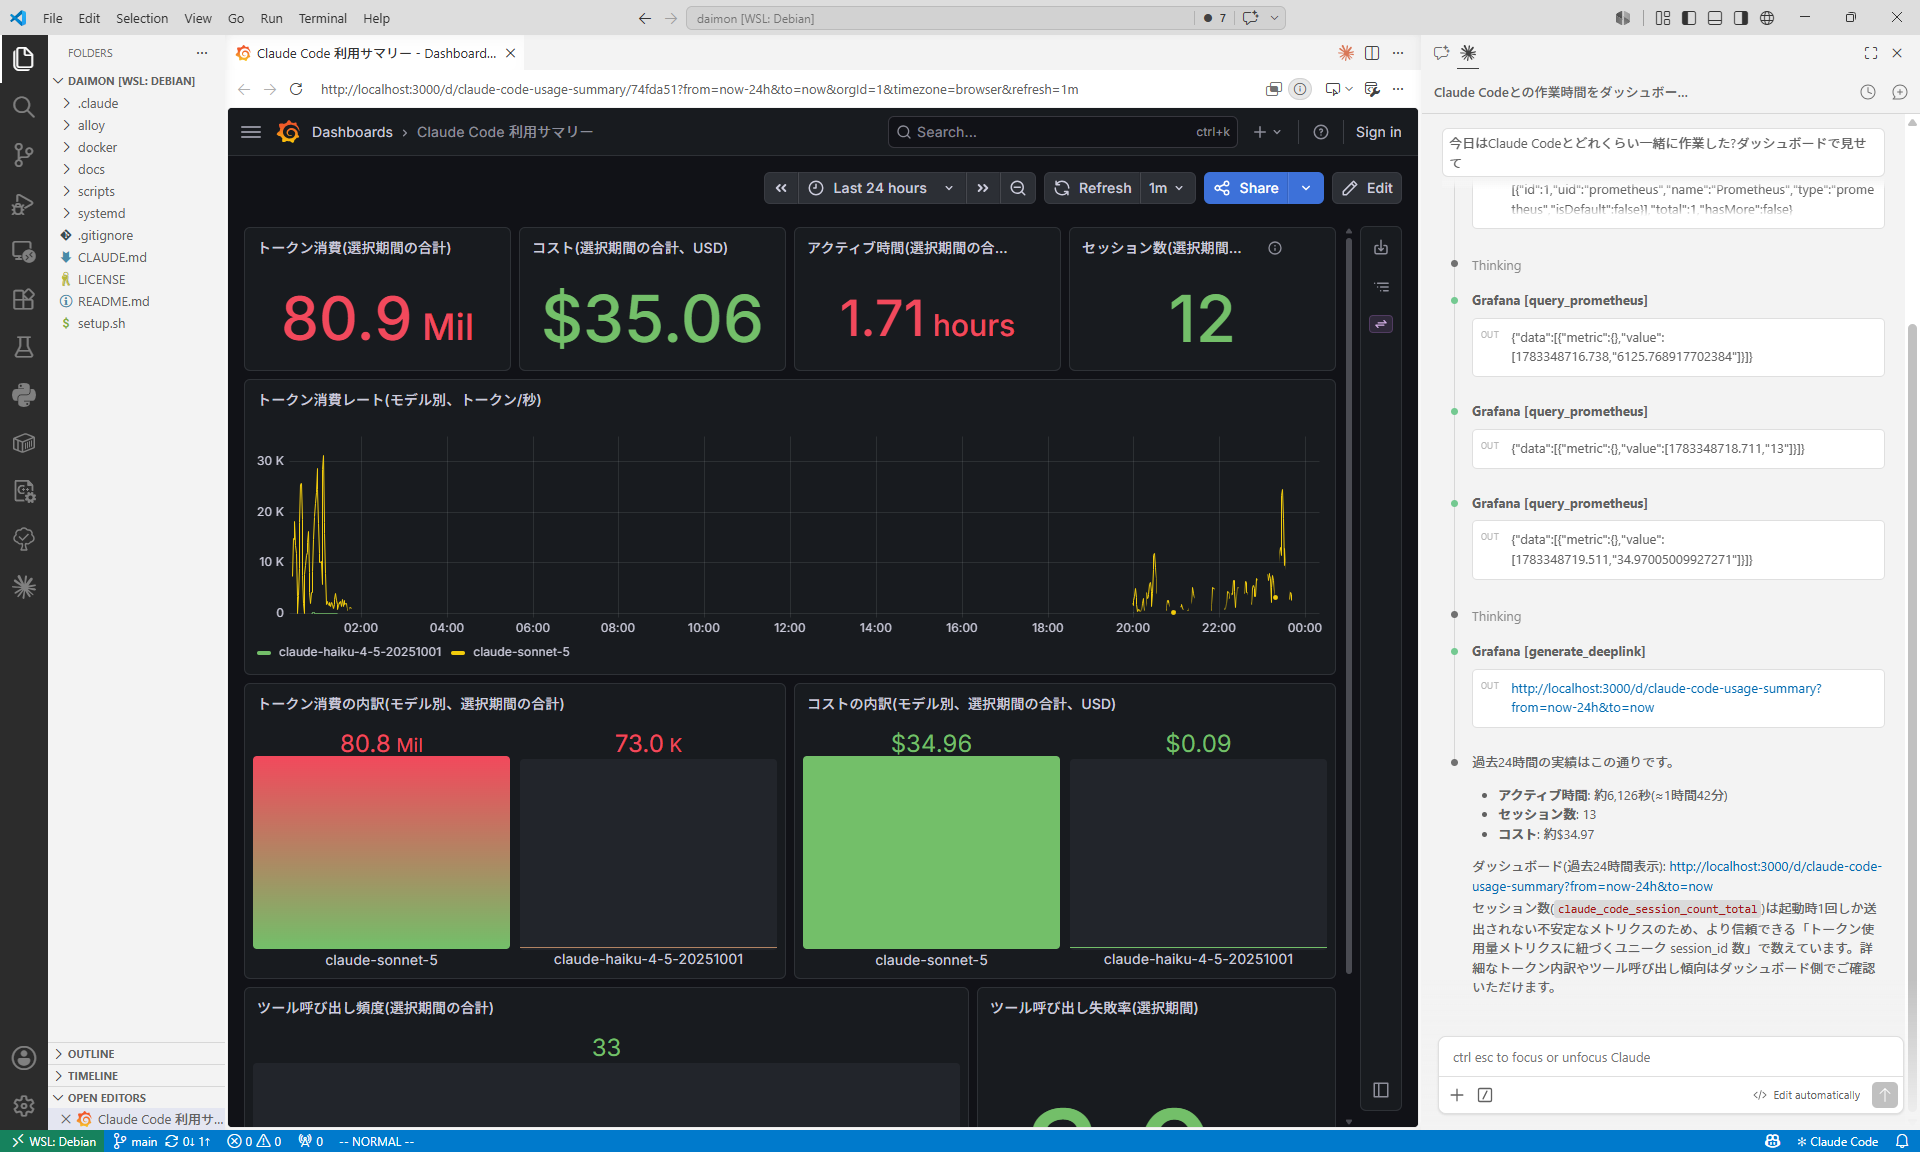
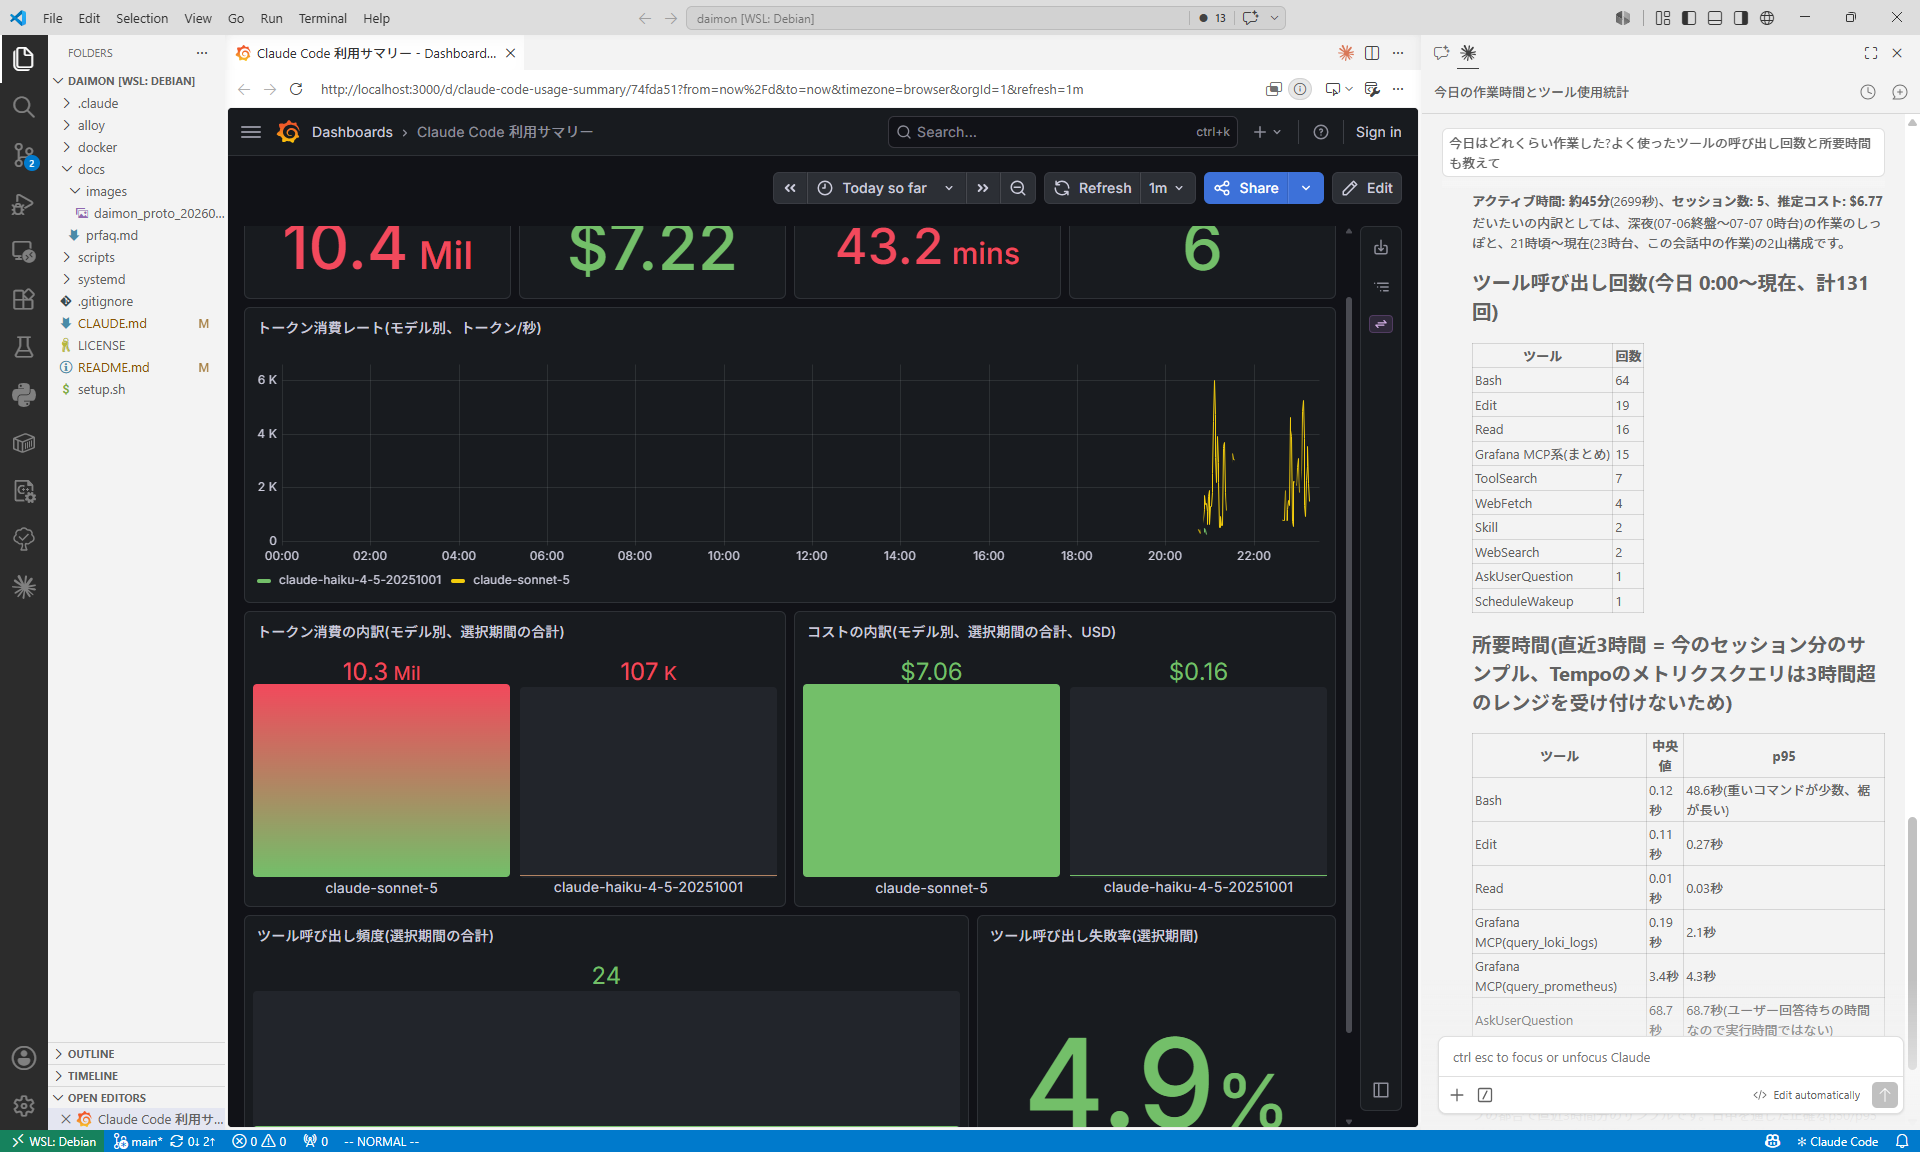
Deduplicate CLAUDE.md/README.md docs after Tempo trace export work
Trace-export details had drifted into both files nearly verbatim; keep
the full verification notes in CLAUDE.md and slim README.md down to a
reference with pointers back to it. Also refresh the dashboard screenshot.

diff --git a/CLAUDE.md b/CLAUDE.md
@@ -13,9 +13,10 @@ Claude Code の利用状況(トークン/コスト・ツール呼び出し傾向
 | `setup.sh` | 下記4ステップを順に呼ぶ、冪等なオーケストレーター |
 | `scripts/merge-settings-env.sh` | `~/.claude/settings.json` の `env` に必要な環境変数を非破壊マージ |
 | `scripts/install-alloy.sh` + `alloy/config.alloy.template` + `systemd/claude-alloy.service.template` | Alloy を自ユーザーの `systemd --user` サービスとして導入・常駐 |
-| `docker/docker-compose.yml` + `docker/otelcol-metrics-overlay.yaml` | `grafana/otel-lgtm`(OTel Collector + Prometheus + Loki + Tempo + Grafana)、127.0.0.1 のみバインド |
+| `docker/docker-compose.yml` + `docker/otelcol-metrics-overlay.yaml` | `grafana/otel-lgtm`(OTel Collector + Prometheus + Loki + Tempo + Grafana)、127.0.0.1 のみバインド。Tempo は追加設定なしで OTLP trace をそのまま受けるため trace 用オーバーレイは無い |
+| `docker/grafana-dashboard-claude-code-usage.json` + `docker/grafana-dashboards-provisioning.yaml` | トークン/コスト/アクティブ時間/セッション数/ツール呼び出し頻度をまとめた「利用サマリー」ダッシュボード(uid: `claude-code-usage-summary`)を Grafana に自動プロビジョニング |
 | `scripts/setup-grafana-mcp.sh` | 専用 Grafana サービスアカウントを発行し、公式 `grafana-mcp` を user スコープの MCP サーバーとして登録 |
-| `.claude/skills/claude-observability/SKILL.md` | 「トークン使用量」「ツール呼び出し頻度」「セッション内容検索」の質問にどのデータソース/クエリで答えるかをまとめた Skill |
+| `.claude/skills/claude-observability/SKILL.md` | 「トークン使用量」「ツール呼び出し頻度・所要時間」「ターン/トレース構造」「セッション内容検索」の質問にどのデータソース/クエリ(Prometheus/Tempo TraceQL/Loki)で答えるかをまとめた Skill |
 
 ## 変更時に踏まえるべき設計上の制約
 
@@ -24,12 +25,13 @@ Claude Code の利用状況(トークン/コスト・ツール呼び出し傾向
 - **Alloy はホストネイティブ実行、Docker 化しない。** バインドマウント越しのファイル変更通知は仮想化レイヤーを挟むと遅延・欠落するリスクがあるため。
 - **Alloy は apt パッケージではなく公式スタンドアロンバイナリを使う。** apt 版は専用の `alloy` システムユーザーで動く system-level systemd service になり、`~/.claude/projects` の読み取り権限を持たない。
 - **otel-lgtm は Docker の `restart: unless-stopped` のみに依存する。** Alloy 側のような独自の `systemd --user` ラッパーは不要(Docker の再起動ポリシーで十分)。
-- **自作 MCP サーバーは持たない。** 汎用的な Prometheus/Loki クエリは公式 `grafana-mcp` に任せ、ドメイン固有ロジック(既知のメトリクス名、2つの Loki ストリームの使い分けなど)だけを Skill 側に持たせる設計。ツール呼び出し頻度集計用の専用 Python スクリプトも、OTel の `tool_result` イベント(1呼び出し1フラットイベント)だけで汎用 LogQL 集計が足りると判明したため撤去済み — 復活させる前に本当に必要か疑うこと。
+- **自作 MCP サーバーは持たない。** 汎用的な Prometheus/Loki/Tempo クエリは公式 `grafana-mcp` に任せ、ドメイン固有ロジック(既知のメトリクス名/span 属性名、Loki 2ストリーム・Tempo・Prometheus の使い分けなど)だけを Skill 側に持たせる設計。ツール呼び出し頻度集計用の専用 Python スクリプトは、まず OTel `tool_result` イベント(1呼び出し1フラットイベント)による汎用 LogQL 集計で置き換えて撤去し、現在はさらに Tempo の trace export(下記)が有効になったことで、頻度・所要時間・成否集計自体を TraceQL メトリクスに寄せている(`duration`/`success` が span のネイティブ属性で `unwrap` 不要、パーセンタイルも取れるため)。Loki はペイロードサイズ(`tool_input_size_bytes`/`tool_result_size_bytes`)のバックストップ用途のみに縮退済み。復活・逆戻りさせる前に本当に必要か疑うこと。
+- **トレース(ベータ)を有効化し、呼び出し系列・所要時間の集計は Tempo TraceQL に寄せる。** `CLAUDE_CODE_ENHANCED_TELEMETRY_BETA=1` + `OTEL_TRACES_EXPORTER=otlp` で `claude_code.interaction`(ターン)→ `llm_request`/`tool` → `tool.execution`/`tool.blocked_on_user` の span 階層が Tempo に届く。内容(プロンプト本文・ツール引数)は既定でリダクトされ Tempo 側にも残らないため、内容検索は引き続き JSONL tail(Loki `{job="claude-code-sessions"}`)の役割。既知の制約: (1) `tempo_traceql-metrics-instant`/`-range` は `start`/`end` が3時間を超えるクエリを拒否する(`tempo_traceql-search` にはこの上限は無い)、(2) `rootServiceName: "<root span not yet received>"` は `claude_code.interaction` がまだ閉じていない(ターン進行中)だけの正常状態であり、データ欠損ではない、(3) Agent SDK の `query()`/ACP streaming-json 経由では `interaction`/`tool` span が欠落し `llm_request` のみになる既知の不具合がある([anthropics/claude-code#53954](https://github.com/anthropics/claude-code/issues/53954)、Closed as not planned)が通常の CLI/VS Code 拡張機能の経路には影響しないと見られる。2026-07-07、v2.1.202 で `claude -p`(標準 CLI)と VS Code 拡張機能のチャットパネル両方から span 到達を実機確認済み(公式ドキュメントは同じく [Monitoring - Claude Code Docs](https://code.claude.com/docs/en/monitoring-usage))。詳細は `.claude/skills/claude-observability/SKILL.md` 参照。
 - **`merge-settings-env.sh` はプレーンな `OTEL_*` と `ANT_` 接頭辞付きの `ANT_OTEL_*` の両方を設定する。** 標準 CLI(ターミナル起動)はプレーン名のみ、VS Code 拡張機能の組み込みバイナリは `ANT_OTEL_*` のみを読む(拡張のネイティブバイナリを `strings` で確認済みの未文書化挙動)。片方を削ると、その起動経路だけメトリクスが来なくなる。
 - **`docker/otelcol-metrics-overlay.yaml` の `deltatocumulative` プロセッサは必須。** Claude Code は既定で Delta temporality のメトリクスを送出するが、Prometheus は Delta を拒否する(しかも otel-lgtm は Prometheus 自身のログを抑制するため、この拒否は何も設定しないと完全にサイレント)。送信側で `cumulative` を強制する方法もあるが VS Code 拡張の組み込みバイナリにはその変数の `ANT_` 版が存在しないため使えない。よって受信側(Collector)での変換が唯一の解。
-- **JSONL tail(`{job="claude-code-sessions"}`)を OTel ログ(`{service_name="claude-code"}`)で代替しない。** OTel 側の `tool_result`/`user_prompt`/`assistant_response` はどのゲート変数を有効にしても設計上トランケートされる(`tool.output` は60KB/属性、プロンプト/レスポンスも上限あり、`tool_result` は既定でサイズしか持たない)。会話全文・ツール入出力の全文検索が必要な用途では JSONL tail が唯一の情報源。
+- **JSONL tail(`{job="claude-code-sessions"}`)を OTel ログ(`{service_name="claude-code"}`)で代替しない。** OTel 側の `tool_result`/`user_prompt`/`assistant_response` はどのゲート変数を有効にしても設計上トランケートされる(`tool.output` は60KB/属性、プロンプト/レスポンスも上限あり、`tool_result` は既定でサイズしか持たない)。会話全文・ツール入出力の全文検索が必要な用途では JSONL tail が唯一の情報源。公式ドキュメント([Monitoring - Claude Code Docs](https://code.claude.com/docs/en/monitoring-usage)、2026-07-06 に v2.1.162 で確認)によれば `claude_code.tool_result`/`tool_decision` イベントの `tool_name`/`success`/`duration_ms`/`tool_input_size_bytes`/`tool_result_size_bytes` は追加ゲートなしで無条件付与される一方、`OTEL_LOG_TOOL_DETAILS=1` で得られる `tool_input` 等は個別値512文字・全体約4KBでトランケートされる(本ツールはこのゲートを有効にしていない)。otel-lgtm は追加設定なしで OTLP ログを Loki のネイティブエンドポイントへ転送する(2026-07-06、v2.1.201・otel-lgtm `latest` で実機確認)。
 
-これらの技術的な検証結果(挙動確認)は Claude Code のバージョンに依存するため、README.md では確認日・バージョンを添えて記録している。挙動が変わっていないか疑わしい場合はまずそちらを確認すること。
+これらの技術的な検証結果(挙動確認)は Claude Code のバージョンに依存するため、上記の各項目に確認日・バージョンを添えて記録している。挙動が変わっていないか疑わしい場合はまずこのファイルの該当箇所を確認すること。
 
 ## 既知のツール上の落とし穴(grafana MCP)
 
@@ -37,7 +39,7 @@ Claude Code の利用状況(トークン/コスト・ツール呼び出し傾向
 
 ## 検証
 
-自動テストスイートはない(シェルスクリプト+設定テンプレート+Skill であり、アプリケーションコードではないため)。変更を検証する場合は README.md の「検証手順」セクションを頭から実行すること(otel-lgtm コンテナの起動確認、Loki/Prometheus のヘルスチェック、Alloy の systemd unit 確認、両方の計装経路でテストデータが実際に届くことの確認まで一通り含む)。
+自動テストスイートはない(シェルスクリプト+設定テンプレート+Skill であり、アプリケーションコードではないため)。変更を検証する場合は README.md の「検証手順」セクションを頭から実行すること(otel-lgtm コンテナの起動確認、Loki/Prometheus/Tempo のヘルスチェック、Alloy の systemd unit 確認、JSONL tail・OTel メトリクス/ログ・Tempo トレースの3経路でテストデータが実際に届くことの確認、ダッシュボードのプロビジョニング確認まで一通り含む)。
 
 ## 言語
 